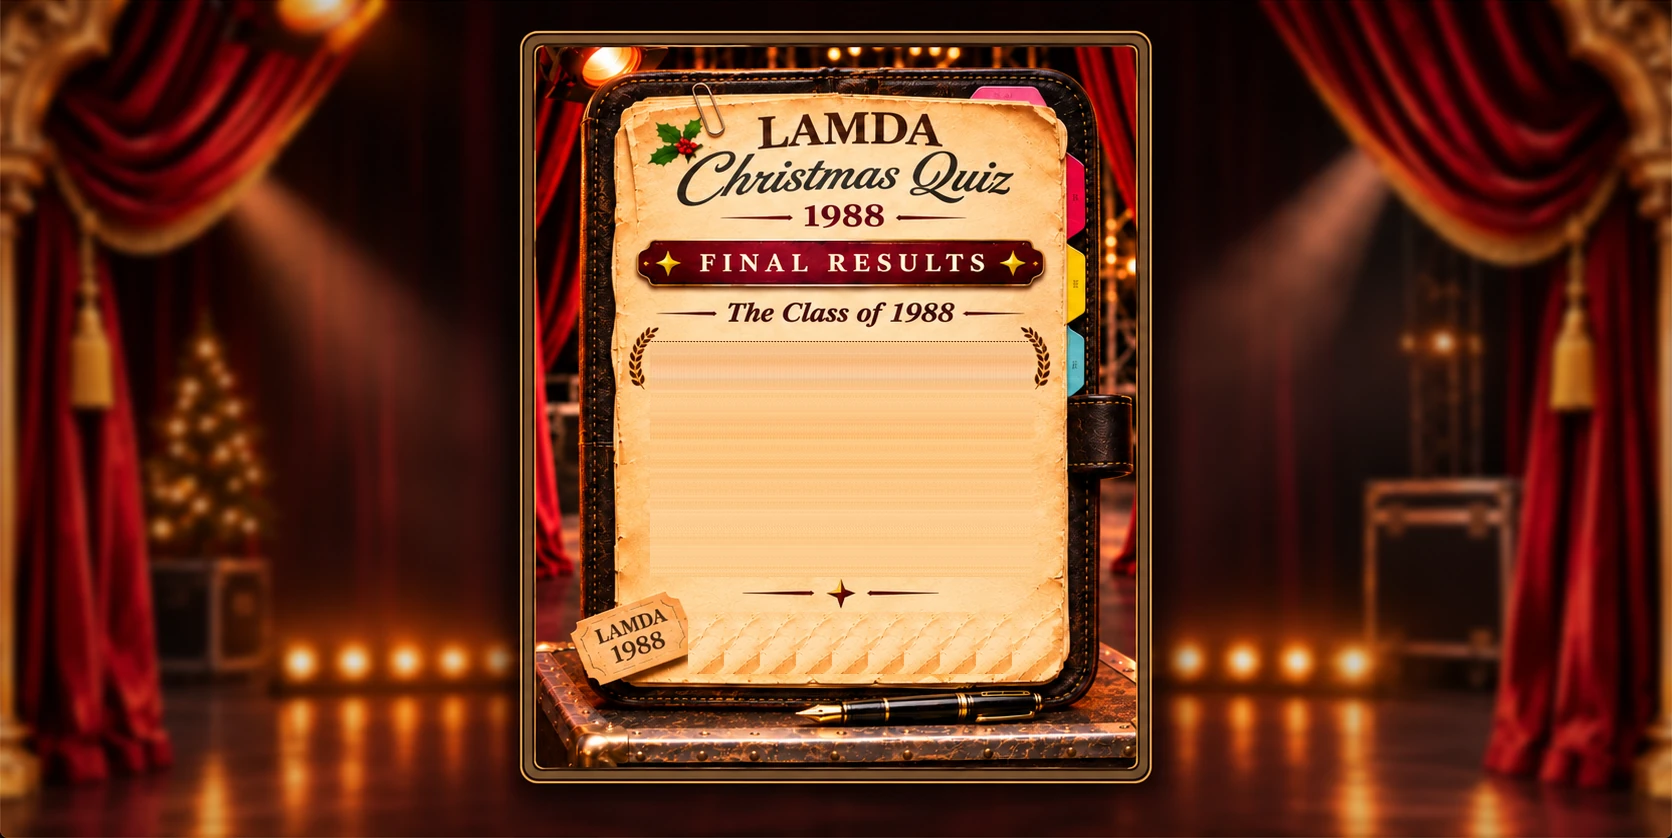
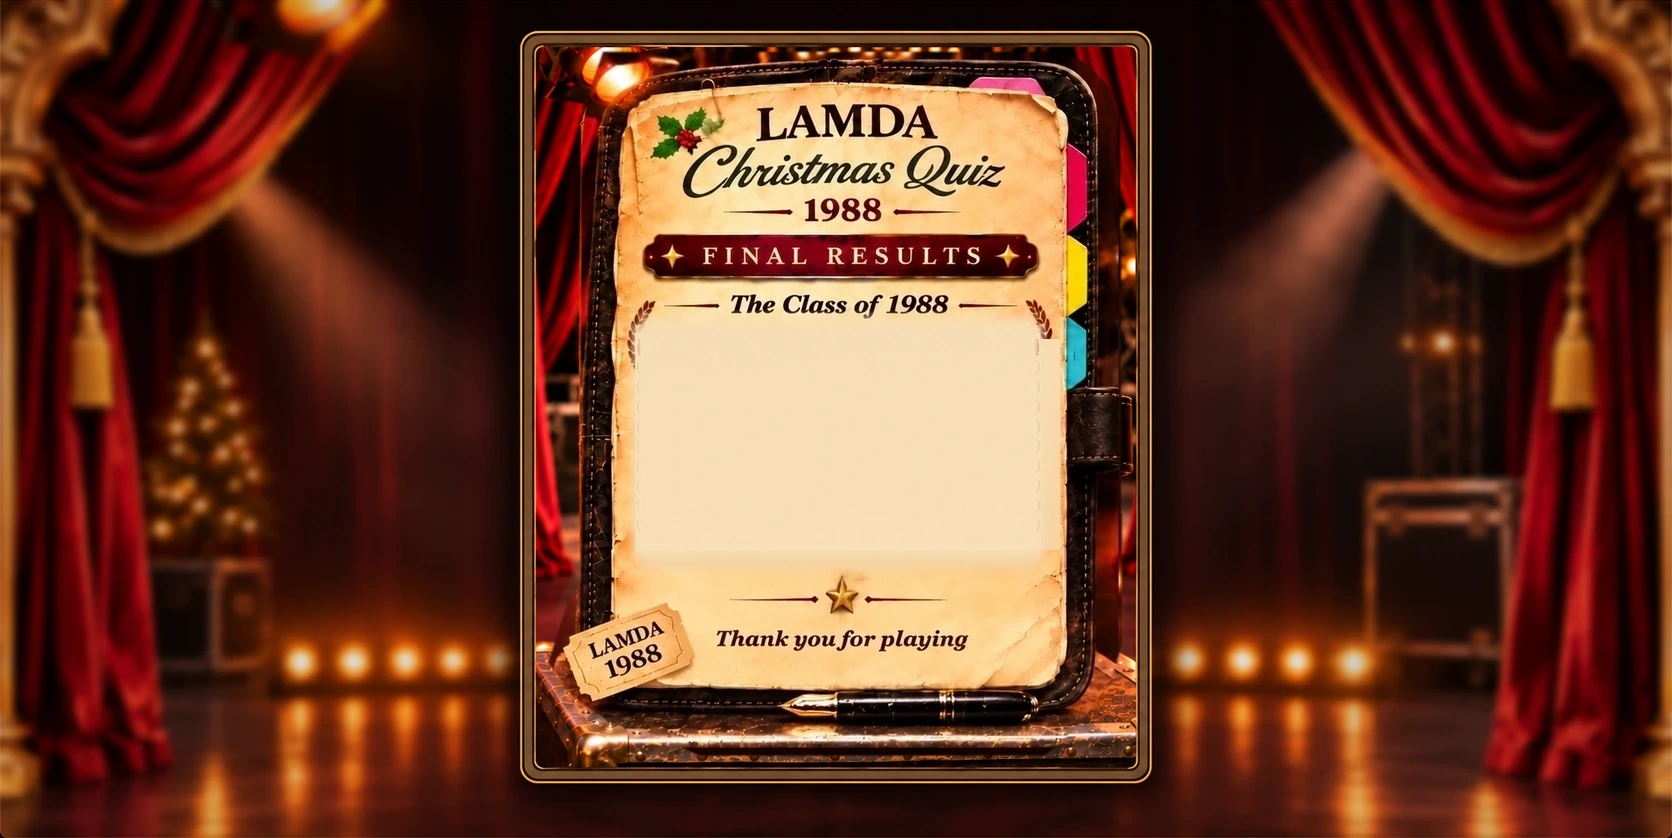
Add files via upload

Changed region(s): [[0.311, 0.0621, 0.6842, 0.9308]]

diff --git a/index.html b/index.html
@@ -308,7 +308,7 @@ button:disabled{opacity:.5;cursor:not-allowed}
 .results-live-list li:nth-child(3){background-image:url(assets/4eba6617fc82.png)}
 .results-live-list li:nth-child(4){background-image:url(assets/f412ef37f20b.png)}
 .results-live-list li:nth-child(5){background-image:url(assets/64130189cd3b.png)}
-.results-player{overflow:hidden;text-overflow:ellipsis;white-space:nowrap}
+.results-player{min-width:0;overflow:hidden;text-overflow:clip;white-space:nowrap;letter-spacing:-.015em}
 .results-points{white-space:nowrap;font-size:.89em}
 .results-reset-hit{position:absolute;left:27.3846%;top:75.641%;width:50%;height:7.9487%;border:0;padding:0;background:url(assets/5934e683734f.png) center/100% 100% no-repeat;cursor:pointer}
 .results-reset-hit:focus-visible,.results-live-list:focus-visible{outline:3px solid gold;outline-offset:2px}
@@ -907,7 +907,7 @@ function renderGame(){
  if(!game)return renderLobby();
  const isHost=state.view==='host';
  if(game.phase==='finished'){
-  const resultsList=(game.scores||[]).map((x,i)=>`<li class="${i===0?'results-winner':''}"><span class="results-place">${i+1}.</span><span class="results-player">${escapeHtml(x.name)}</span><strong class="results-points">${x.score} ${x.score===1?'point':'points'}</strong></li>`).join('');
+  const resultsList=(game.scores||[]).map((x,i)=>{const nameScale=Math.max(.58,1-Math.max(0,(x.name||'').length-12)*.035);return `<li class="${i===0?'results-winner':''}"><span class="results-place">${i+1}.</span><span class="results-player" style="font-size:${nameScale.toFixed(2)}em">${escapeHtml(x.name)}</span><strong class="results-points">${x.score} ${x.score===1?'point':'points'}</strong></li>`}).join('');
   app.innerHTML=isHost
    ? `<section class="results-art-screen"><div class="results-art-stage" role="region" aria-label="LAMDA Christmas Quiz final results"><ol class="results-live-list" tabindex="0" aria-label="Final scores">${resultsList}</ol><button class="results-reset-hit" onclick="pressedAction(this,resetLobby)" aria-label="Reset for a new game"></button></div></section>`
    : `<section class="results-art-screen player-results-screen" role="region" aria-label="Your final quiz results">
